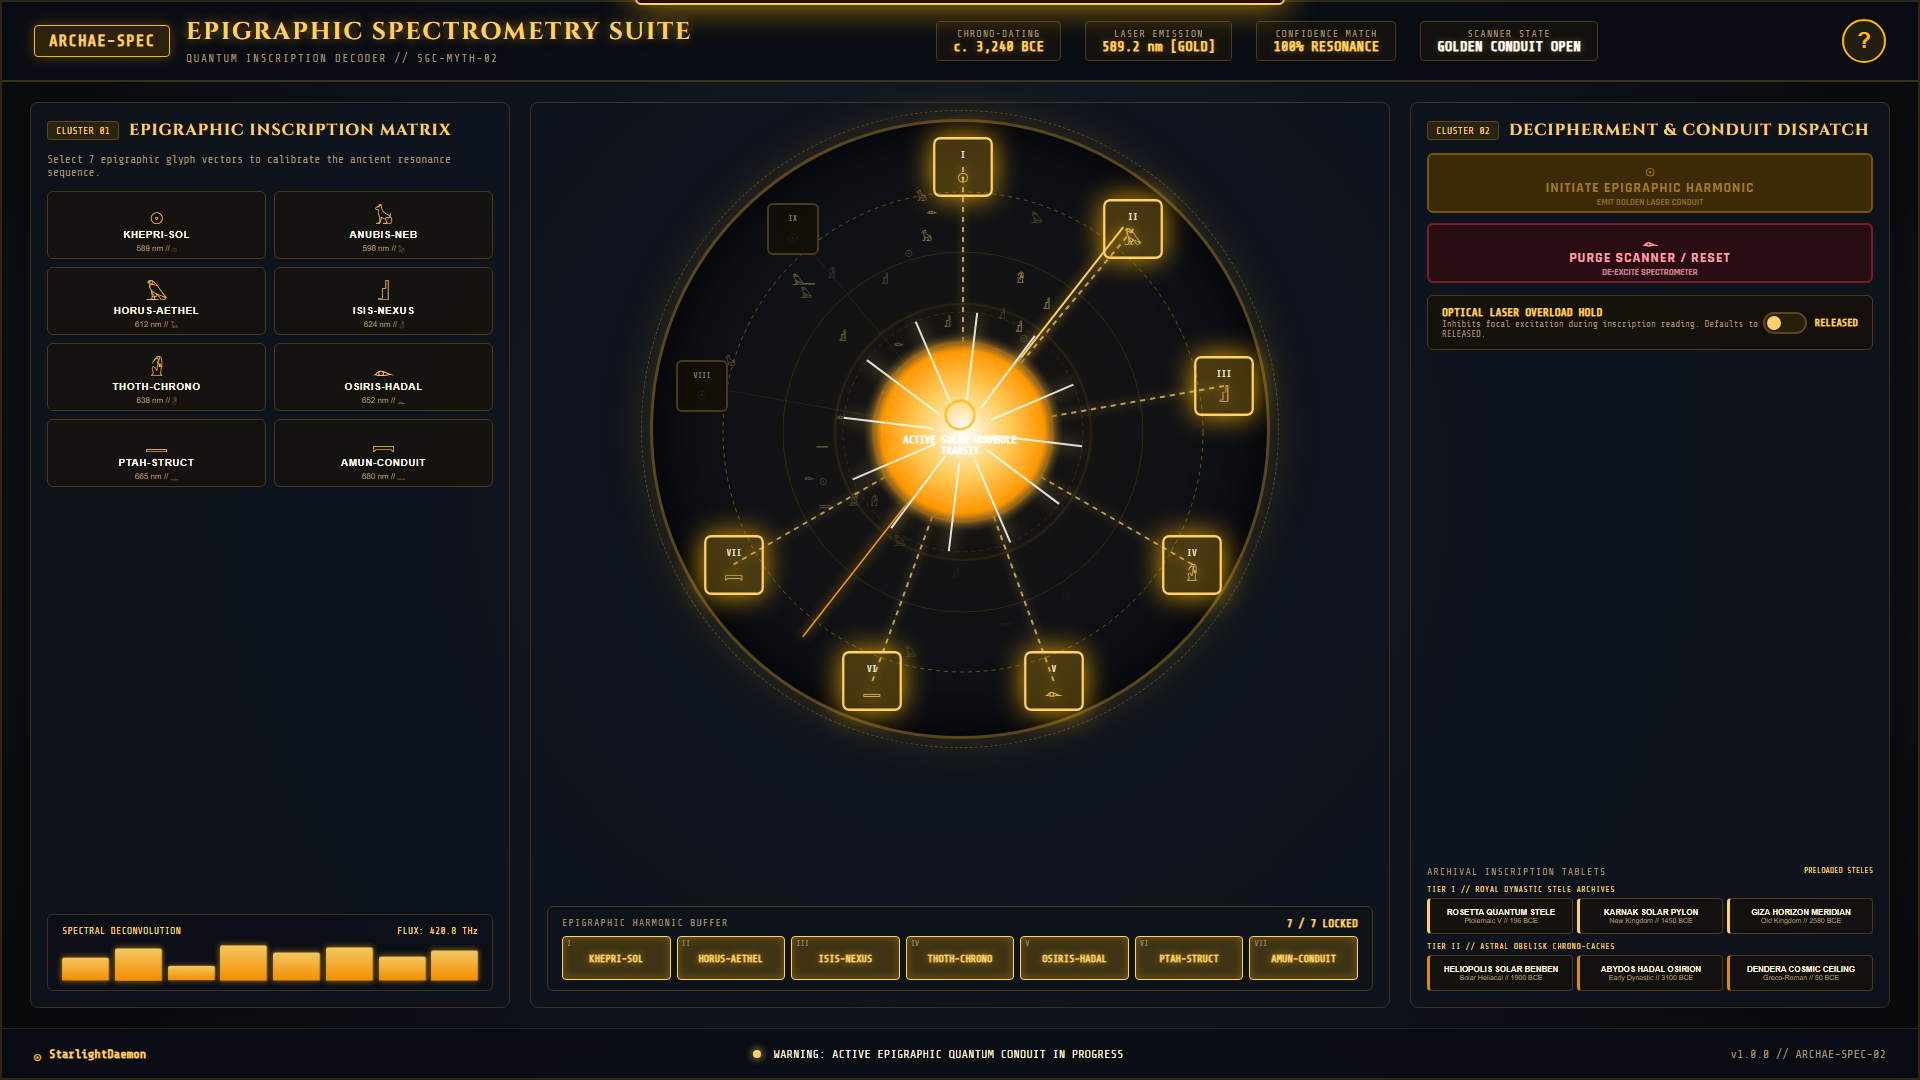
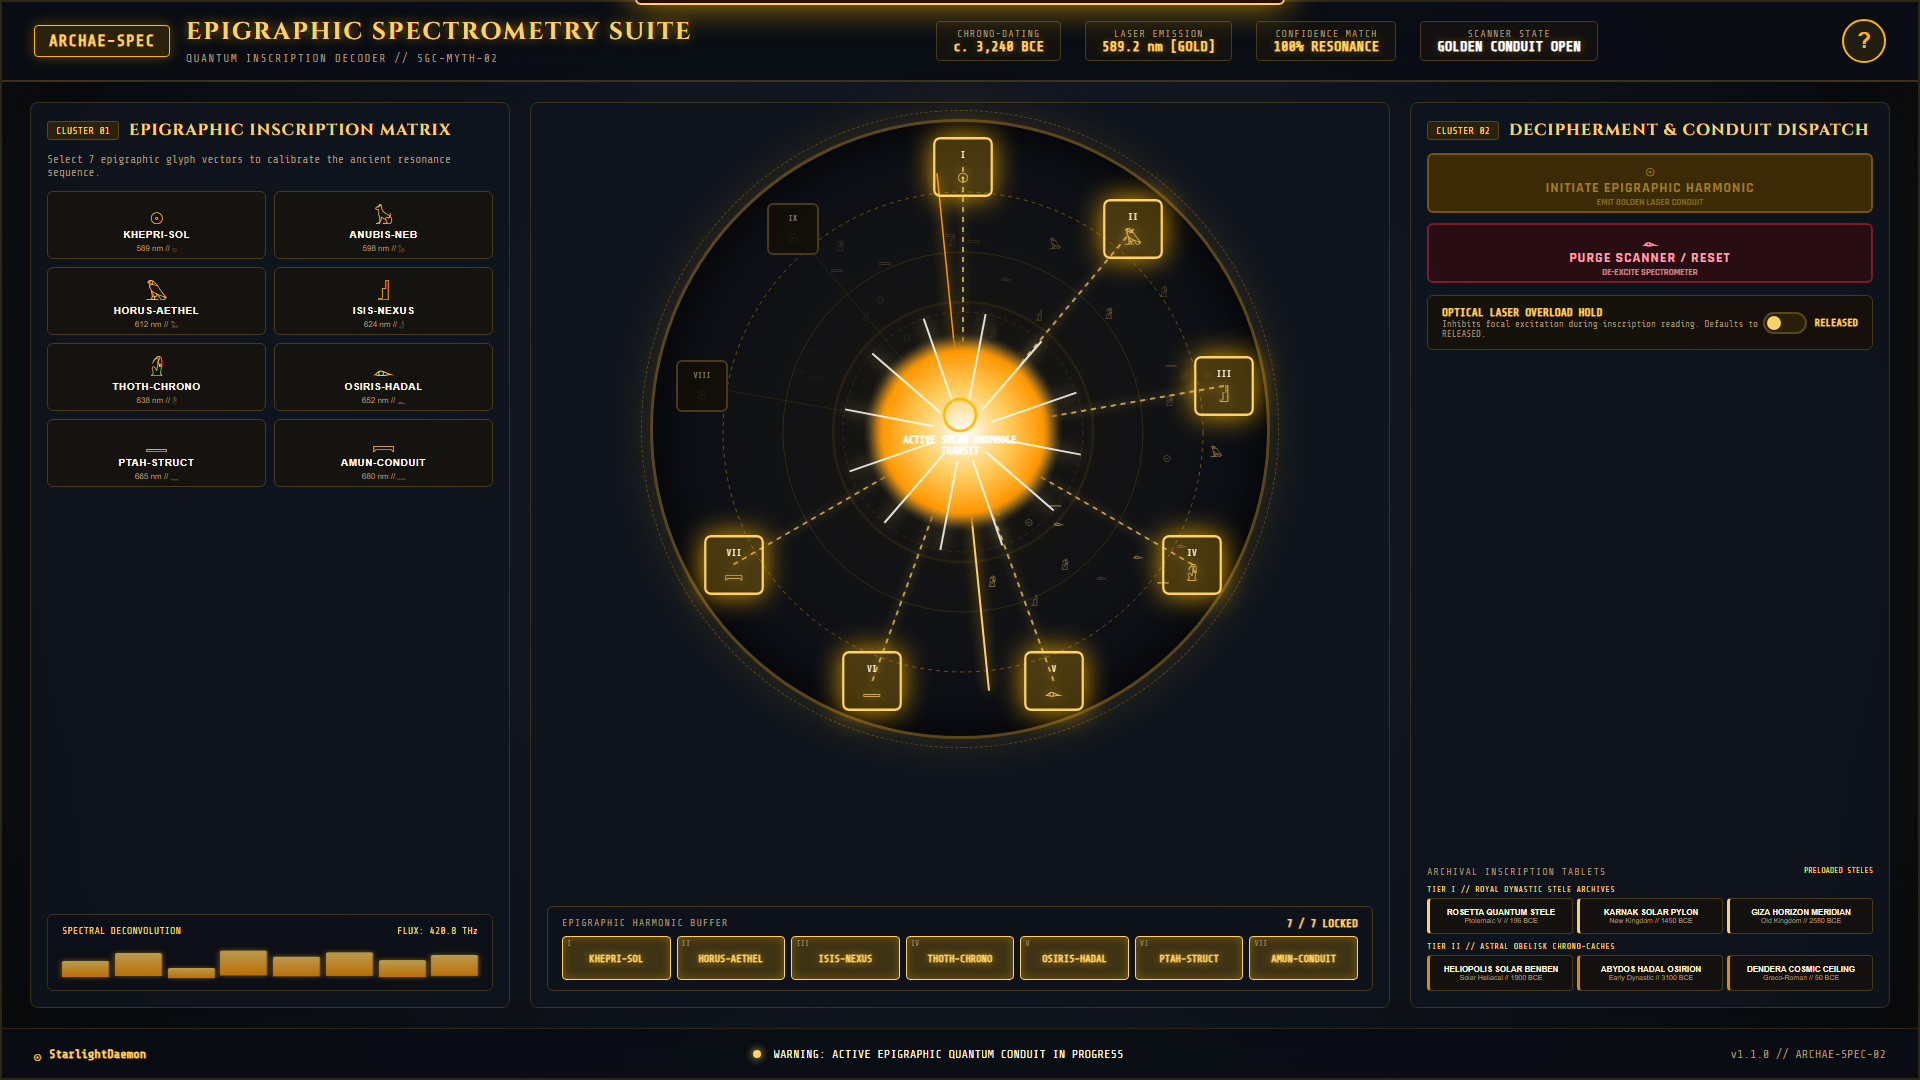
fix(stargate_epigraphic_spectrometry): stage preset quick-dial through per-glyph spectral locks (v1.1.0)
loadPreset previously locked all 7 glyphs in one synchronous forEach,
jumping straight to PENDING_READY and skipping the per-glyph laser scan
tone, crystal chime, chevron animation, and SCANNING telemetry manual
dialing uses. Presets now re-scan the catalogued cartouche through
lockGlyph (the manual lock path) at 280ms per glyph - servo-stage
cadence. Replay lands in PENDING_READY without opening the conduit;
PURGE/RESET cancels an in-flight replay, and the laser overload hold
halts remaining scans with one interlock alert. Tests: staged sampling
with in-progress screenshots, mid-replay purge test, re-timed preset
check.

Changed region(s): [[0.4375, 0.275, 0.5625, 0.6417], [0.0312, 0.8556, 0.25, 0.9167], [0.4688, 0.2139, 0.5, 0.2444]]

diff --git a/stargate_epigraphic_spectrometry/test_build.js b/stargate_epigraphic_spectrometry/test_build.js
@@ -231,7 +231,7 @@ async function runTests() {
     // --- TEST CYCLE 2: PRESET -> NEGATIVE CHECK -> ACTIVATE -> ACTIVE VERIFICATION -> DISENGAGE ---
     console.log('\n--- EXECUTING DIAL-ACTIVATE-DISENGAGE CYCLE 2 ---');
     await hitAndClick('.preset-btn[data-preset="rosetta-quantum"]');
-    await sleep(600);
+    await sleep(2600); // cartouche replay: 7 glyphs x 280ms scan cadence
 
     const stateAfterPreset = await cdp.eval(`(() => {
       const counter = document.getElementById('address-counter').textContent;
@@ -271,6 +271,67 @@ async function runTests() {
       return document.getElementById('address-counter').textContent;
     })()`);
     console.log(`[Cycle 2 - After Disengage]: ${stateAfterDisengage2}`);
+
+    // --- TEST STAGED CARTOUCHE REPLAY (per-glyph locks, no instant jump) ---
+    console.log('\n--- TESTING STAGED PRESET REPLAY ---');
+    await hitAndClick('.preset-btn[data-preset="rosetta-quantum"]');
+    // hitAndClick sleeps 250ms after the click; sample on an absolute clock
+    const clickT0 = Date.now() - 250;
+
+    const replaySamples = [];
+    for (const off of [450, 1000, 1550]) {
+      const rem = clickT0 + off - Date.now();
+      if (rem > 0) await sleep(rem);
+      const s = await cdp.eval(`(() => ({
+        locked: (document.getElementById('address-counter').textContent.match(/^(\\d+)/) || [0,0])[1],
+        teleState: document.getElementById('tele-state').textContent,
+        activateDisabled: document.getElementById('btn-activate').hasAttribute('disabled')
+      }))()`);
+      s.locked = parseInt(s.locked, 10);
+      replaySamples.push(s);
+      console.log(`  t=${Date.now() - clickT0}ms:`, JSON.stringify(s));
+      await cdp.screenshot(path.join(__dirname, `screenshot_replay_t${off}.png`));
+    }
+    const rCounts = replaySamples.map(s => s.locked);
+    const stagedOk = rCounts.every((v, i) => i === 0 || v > rCounts[i - 1]) &&
+      replaySamples.every(s => s.locked > 0 && s.locked < 7 && s.activateDisabled &&
+        !s.teleState.includes('GOLDEN CONDUIT OPEN'));
+    if (!stagedOk) {
+      throw new Error(`FAIL: Preset replay is not visibly staged: ${JSON.stringify(replaySamples)}`);
+    }
+
+    // Completion +1.2s: PENDING, activate enabled, NOT active
+    const toEnd = clickT0 + 1960 + 1200 - Date.now();
+    if (toEnd > 0) await sleep(toEnd);
+    const replayEnd = await cdp.eval(`(() => ({
+      counter: document.getElementById('address-counter').textContent,
+      teleState: document.getElementById('tele-state').textContent,
+      activateDisabled: document.getElementById('btn-activate').hasAttribute('disabled')
+    }))()`);
+    console.log('[Replay End]:', JSON.stringify(replayEnd));
+    if (!replayEnd.counter.includes('7 / 7') || replayEnd.activateDisabled ||
+        replayEnd.teleState.includes('GOLDEN CONDUIT OPEN')) {
+      throw new Error('FAIL: Replay did not land in PENDING_READY without auto-fire.');
+    }
+    console.log('>>> STAGED REPLAY CONFIRMED: per-glyph locks, PENDING at end, no auto-fire.');
+
+    // --- TEST DISENGAGE DURING REPLAY ---
+    console.log('\n--- TESTING PURGE DURING PRESET REPLAY ---');
+    await hitAndClick('#btn-disengage');
+    await sleep(200);
+    await hitAndClick('.preset-btn[data-preset="rosetta-quantum"]');
+    await sleep(500); // ~2 glyphs locked (250ms already slept in hitAndClick)
+    const midAbortState = await cdp.eval(`document.getElementById('address-counter').textContent`);
+    console.log(`[Mid-replay before purge]: ${midAbortState}`);
+    await hitAndClick('#btn-disengage');
+    await sleep(1900); // past when remaining scans would have fired
+    const afterAbortState = await cdp.eval(`document.getElementById('address-counter').textContent`);
+    console.log(`[After mid-replay purge +1.9s]: ${afterAbortState}`);
+    if (!afterAbortState.includes('0 / 7')) {
+      throw new Error('FAIL: Purge during replay left orphaned scan timers still locking glyphs.');
+    }
+    await cdp.screenshot(path.join(__dirname, 'screenshot_mid_replay_abort.png'));
+    console.log('>>> MID-REPLAY PURGE CONFIRMED: no orphaned locks after disengage.');
 
     // --- TEST LASER OVERLOAD SAFETY HOLD ---
     console.log('\n--- TESTING LASER OVERLOAD SAFETY HOLD ---');

diff --git a/stargate_epigraphic_spectrometry/app.js b/stargate_epigraphic_spectrometry/app.js
@@ -454,6 +454,7 @@
 
   // --- DISENGAGE / PURGE TRIGGER ---
   function disengageConduit() {
+    cancelPresetReplay(); // abort any in-flight cartouche replay
     SoundFX.purgeDisengage();
 
     state.mode = 'IDLE';
@@ -480,6 +481,20 @@
   }
 
   // --- PRESET QUICK-DIAL LOADER ---
+  // CATALOGUED CARTOUCHE REPLAY: presets re-scan a fully translated cartouche
+  // from the expedition catalogue — the spectrometer traverses the glyph
+  // sequence at servo-stage speed, far faster than manual transcription, but
+  // every glyph still passes through the same lockGlyph spectral lock (laser
+  // scan tone, crystal chime, locus chevron, telemetry) as a manually dialed
+  // glyph. The 7th lock lands in PENDING_READY; the golden conduit NEVER
+  // opens on its own.
+  let presetReplayTimers = [];
+
+  function cancelPresetReplay() {
+    presetReplayTimers.forEach(t => clearTimeout(t));
+    presetReplayTimers = [];
+  }
+
   function loadPreset(presetKey) {
     if (state.safetyHoldEngaged) {
       triggerInterlockAlert();
@@ -488,12 +503,21 @@
     const preset = PRESETS[presetKey];
     if (!preset) return;
 
-    disengageConduit();
+    disengageConduit(); // also cancels any in-flight replay
 
-    preset.glyphs.forEach(glyphName => {
-      const btn = document.querySelector(`.glyph-btn[data-glyph="${glyphName}"]`);
-      const sym = btn ? btn.dataset.symbol : '𓇳';
-      lockGlyph(glyphName, sym);
+    const SCAN_STEP_MS = 280; // servo-stage cadence: faster than transcription, one glyph per scan
+    preset.glyphs.forEach((glyphName, i) => {
+      const timer = setTimeout(() => {
+        if (state.safetyHoldEngaged) {
+          cancelPresetReplay();
+          triggerInterlockAlert();
+          return;
+        }
+        const btn = document.querySelector(`.glyph-btn[data-glyph="${glyphName}"]`);
+        const sym = btn ? btn.dataset.symbol : '𓇳';
+        lockGlyph(glyphName, sym);
+      }, SCAN_STEP_MS * (i + 1));
+      presetReplayTimers.push(timer);
     });
   }
 

diff --git a/stargate_epigraphic_spectrometry/index.html b/stargate_epigraphic_spectrometry/index.html
@@ -302,7 +302,7 @@
         <span id="footer-status-text">SPECTROMETER ONLINE // 9 LOCI SYNCHRONIZED</span>
       </div>
       <div class="footer-right">
-        <span class="version-tag">v1.0.0 // ARCHAE-SPEC-02</span>
+        <span class="version-tag">v1.1.0 // ARCHAE-SPEC-02</span>
       </div>
     </footer>
   </div>

diff --git a/stargate_epigraphic_spectrometry/CHANGELOG.md b/stargate_epigraphic_spectrometry/CHANGELOG.md
@@ -5,6 +5,19 @@ All notable changes to this project will be documented in this file.
 The format is based on [Keep a Changelog](https://keepachangelog.com/en/1.0.0/),
 and this project adheres to [Semantic Versioning](https://semver.org/spec/v2.0.0.html).
 
+## [1.1.0] - 2026-08-15
+
+**Built by:** Claude Opus (auto-dial staging fix; original build by Gemini 3.6 Flash (high reasoning))
+
+### Fixed
+- **Preset Quick-Dial Instant-Jump Bug**: loading a catalogue preset previously locked all 7 glyphs in one synchronous forEach, jumping straight to `PENDING_READY` and bypassing the per-glyph laser scan tone, crystal chime, locus chevron animation, and `SCANNING` telemetry progression that manual dialing uses.
+- **Catalogued Cartouche Replay**: presets now re-scan each glyph through the exact same `lockGlyph` spectral lock as manual dialing, one glyph every 280ms — in-universe, the spectrometer traverses a fully translated cartouche from the expedition catalogue at servo-stage speed: far faster than manual transcription, but every glyph still requires its own spectral scan lock.
+- Replay lands in the identical `PENDING_READY` state as manual dialing and **never opens the golden conduit on its own** (asserted at completion +1.2s).
+- `PURGE / DISENGAGE` remains fully functional **during** a replay: purging mid-sequence cancels all pending scan timers and resets cleanly (new automated test). Engaging the Laser Overload Hold mid-replay halts the remaining scans with a single interlock alert.
+
+### Changed
+- Verification suite: staged-replay sampling with in-progress screenshots, mid-replay purge test; preset assertion re-timed for the ~2s replay.
+
 ## [1.0.1] - 2026-08-13
 
 ### Operator Evaluation & Status Note
